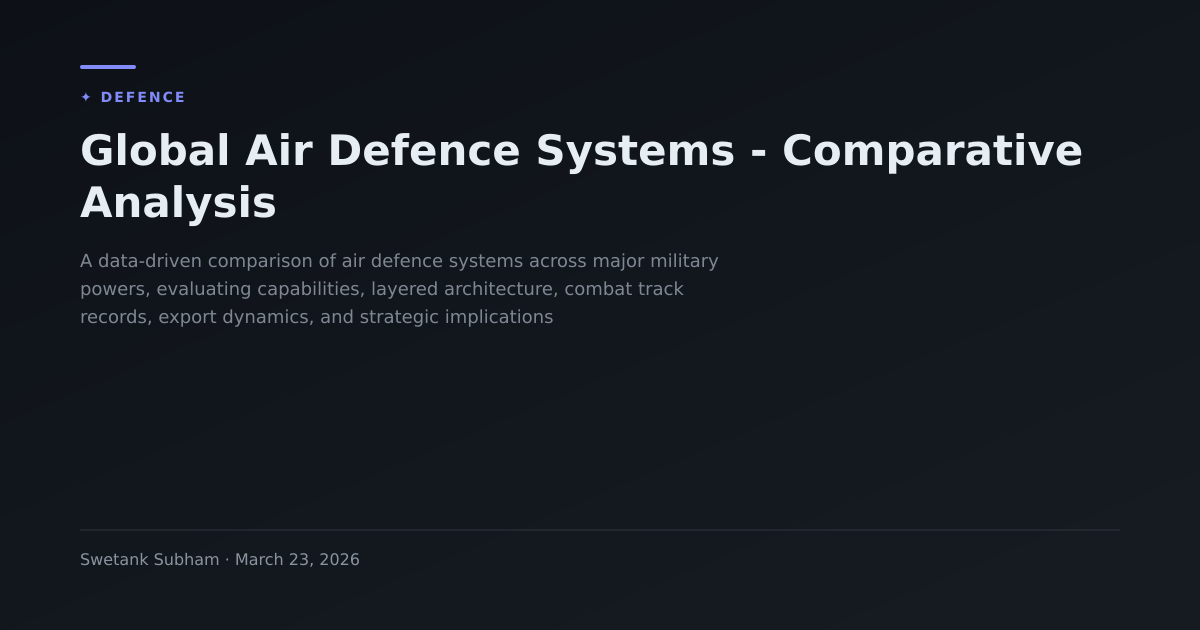
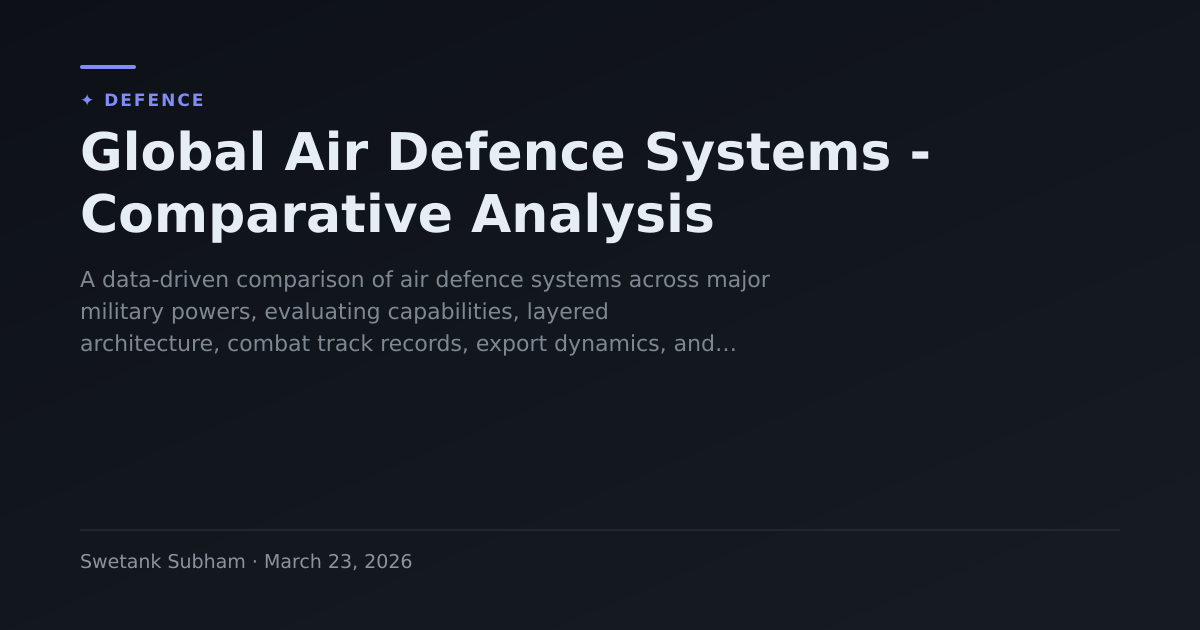
[Deploy]
Build SHA:1f79a92f6b9b153cd38e77f0118192a42e7bb3b2

Triggered by: push

Workflow run: https://github.com/swtnk/reads-dev/actions/runs/23710629909

Changed region(s): [[0.0617, 0.2111, 0.925, 0.573], [0.0617, 0.8746, 0.3392, 0.9048], [0.0617, 0.1206, 0.185, 0.181]]

diff --git a/generate-manifest.js b/generate-manifest.js
@@ -329,19 +329,19 @@ var trimSlashes = (s) => {
 };
 var stripBasePath = (route) => trimSlashes(route.startsWith(BASE_PATH) ? route.slice(BASE_PATH.length) : route);
 var generateOgSvg = (article) => {
-  const titleLines = wrapText(article.title, 42, 3);
-  const descLines = wrapText(article.description, 72, 3);
+  const titleLines = wrapText(article.title, 36, 3);
+  const descLines = wrapText(article.description, 62, 3);
   const category = article.category.toUpperCase();
-  const titleStartY = 165;
-  const titleLineHeight = 52;
+  const titleStartY = 170;
+  const titleLineHeight = 62;
   const titleTspans = titleLines.map((line, i) => {
     const pos = i === 0 ? `y="${titleStartY}"` : `dy="${titleLineHeight}"`;
     return `<tspan x="80" ${pos}>${escapeXml(line)}</tspan>`;
   }).join(`
       `);
   const titleEndY = titleStartY + (titleLines.length - 1) * titleLineHeight;
-  const descStartY = titleEndY + 50;
-  const descLineHeight = 28;
+  const descStartY = titleEndY + 55;
+  const descLineHeight = 32;
   const descTspans = descLines.map((line, i) => {
     const pos = i === 0 ? `y="${descStartY}"` : `dy="${descLineHeight}"`;
     return `<tspan x="80" ${pos}>${escapeXml(line)}</tspan>`;
@@ -358,20 +358,52 @@ var generateOgSvg = (article) => {
   </defs>
   <rect width="1200" height="630" fill="url(#bg)"/>
   <rect x="80" y="65" width="56" height="4" rx="2" fill="#818cf8"/>
-  <text x="80" y="102" font-family="system-ui, -apple-system, sans-serif" font-size="14" font-weight="600" fill="#818cf8" letter-spacing="2">✦ ${escapeXml(category)}</text>
-  <text font-family="system-ui, -apple-system, sans-serif" font-size="42" font-weight="700" fill="#e6edf3">
+  <text x="80" y="106" font-family="system-ui, -apple-system, sans-serif" font-size="17" font-weight="600" fill="#818cf8" letter-spacing="2">✦ ${escapeXml(category)}</text>
+  <text font-family="system-ui, -apple-system, sans-serif" font-size="52" font-weight="700" fill="#e6edf3">
       ${titleTspans}
   </text>
-  <text font-family="system-ui, -apple-system, sans-serif" font-size="18" fill="#8b949e" opacity="0.9">
+  <text font-family="system-ui, -apple-system, sans-serif" font-size="22" fill="#8b949e" opacity="0.9">
       ${descTspans}
   </text>
   <line x1="80" y1="530" x2="1120" y2="530" stroke="#30363d" stroke-width="1"/>
-  <text x="80" y="565" font-family="system-ui, -apple-system, sans-serif" font-size="16" fill="#8b949e">${escapeXml(meta)}</text>
+  <text x="80" y="568" font-family="system-ui, -apple-system, sans-serif" font-size="19" fill="#8b949e">${escapeXml(meta)}</text>
+</svg>`;
+};
+var generateSiteOgSvg = () => {
+  const title = SITE_CONFIG.header.title;
+  const subtitle = SITE_CONFIG.header.subtitle;
+  const heroLines = wrapText(SITE_CONFIG.home.heroTitle, 36, 3);
+  const heroStartY = 200;
+  const heroLineHeight = 62;
+  const heroTspans = heroLines.map((line, i) => {
+    const pos = i === 0 ? `y="${heroStartY}"` : `dy="${heroLineHeight}"`;
+    return `<tspan x="80" ${pos}>${escapeXml(line)}</tspan>`;
+  }).join(`
+      `);
+  return `<svg xmlns="http://www.w3.org/2000/svg" width="1200" height="630" viewBox="0 0 1200 630">
+  <defs>
+    <linearGradient id="bg" x1="0" y1="0" x2="0.8" y2="1">
+      <stop offset="0%" stop-color="#0d1117"/>
+      <stop offset="100%" stop-color="#161b22"/>
+    </linearGradient>
+  </defs>
+  <rect width="1200" height="630" fill="url(#bg)"/>
+  <rect x="80" y="85" width="56" height="4" rx="2" fill="#818cf8"/>
+  <text x="80" y="140" font-family="system-ui, -apple-system, sans-serif" font-size="52" font-weight="700" fill="#e6edf3">${escapeXml(title)}</text>
+  <text x="232" y="140" font-family="system-ui, -apple-system, sans-serif" font-size="22" fill="#8b949e" dominant-baseline="alphabetic">${escapeXml(subtitle)}</text>
+  <text font-family="system-ui, -apple-system, sans-serif" font-size="52" font-weight="700" fill="#e6edf3">
+      ${heroTspans}
+  </text>
+  <line x1="80" y1="530" x2="1120" y2="530" stroke="#30363d" stroke-width="1"/>
+  <text x="80" y="568" font-family="system-ui, -apple-system, sans-serif" font-size="19" fill="#8b949e">${escapeXml(SITE_CONFIG.url)}</text>
 </svg>`;
 };
 var generateOgImages = (articles, outDir) => {
   const ogDir = path2.join(outDir, GENERATED_DIR, OG_DIR_NAME);
   let count = 0;
+  const siteSvgPath = path2.join(ogDir, "site.svg");
+  fs2.mkdirSync(path2.dirname(siteSvgPath), { recursive: true });
+  fs2.writeFileSync(siteSvgPath, generateSiteOgSvg(), "utf-8");
   for (const article of articles) {
     if (isUnlistedContentPath(article.id))
       continue;
@@ -413,7 +445,7 @@ var buildMetaBlock = (props) => {
   return lines.join(`
     `);
 };
-var stripSiteMeta = (html) => html.replace(/\s*<meta\s+(?:property="og:[^"]*"|name="twitter:[^"]*"|name="description")[^>]*\/>/g, "").replace(/\n\s*\n/g, `
+var stripSiteMeta = (html) => html.replaceAll(/\s*<meta\s+(?:property="og:[^"]*"|name="twitter:[^"]*"|name="description")[^>]*\/>/g, "").replaceAll(/\n\s*\n/g, `
 `);
 var injectMeta = (html, title, metaBlock) => stripSiteMeta(html).replace(/<title>[^<]*<\/title>/, `<title>${escapeAttr(title)}</title>`).replace('<meta name="viewport" content="width=device-width, initial-scale=1.0" />', `<meta name="viewport" content="width=device-width, initial-scale=1.0" />
     ${metaBlock}`);

diff --git a/404.html b/404.html
@@ -9,9 +9,14 @@
     <meta property="og:description" content="A web-first publication with featured stories, latest updates, and weekly highlights." />
     <meta property="og:url" content="https://swetanksubham.com/reads/" />
     <meta property="og:site_name" content="Reads" />
-    <meta name="twitter:card" content="summary" />
+    <meta property="og:image" content="https://swetanksubham.com/reads/_generated/og/site.png" />
+    <meta property="og:image:width" content="1200" />
+    <meta property="og:image:height" content="630" />
+    <meta property="og:image:type" content="image/png" />
+    <meta name="twitter:card" content="summary_large_image" />
     <meta name="twitter:title" content="Reads" />
     <meta name="twitter:description" content="A web-first publication with featured stories, latest updates, and weekly highlights." />
+    <meta name="twitter:image" content="https://swetanksubham.com/reads/_generated/og/site.png" />
     <link rel="icon" type="image/svg+xml" href="/reads/favicon.svg" />
     <title>Reads</title>
     <link rel="preconnect" href="https://fonts.googleapis.com" />

diff --git a/index.html b/index.html
@@ -9,9 +9,14 @@
     <meta property="og:description" content="A web-first publication with featured stories, latest updates, and weekly highlights." />
     <meta property="og:url" content="https://swetanksubham.com/reads/" />
     <meta property="og:site_name" content="Reads" />
-    <meta name="twitter:card" content="summary" />
+    <meta property="og:image" content="https://swetanksubham.com/reads/_generated/og/site.png" />
+    <meta property="og:image:width" content="1200" />
+    <meta property="og:image:height" content="630" />
+    <meta property="og:image:type" content="image/png" />
+    <meta name="twitter:card" content="summary_large_image" />
     <meta name="twitter:title" content="Reads" />
     <meta name="twitter:description" content="A web-first publication with featured stories, latest updates, and weekly highlights." />
+    <meta name="twitter:image" content="https://swetanksubham.com/reads/_generated/og/site.png" />
     <link rel="icon" type="image/svg+xml" href="/reads/favicon.svg" />
     <title>Reads</title>
     <link rel="preconnect" href="https://fonts.googleapis.com" />
